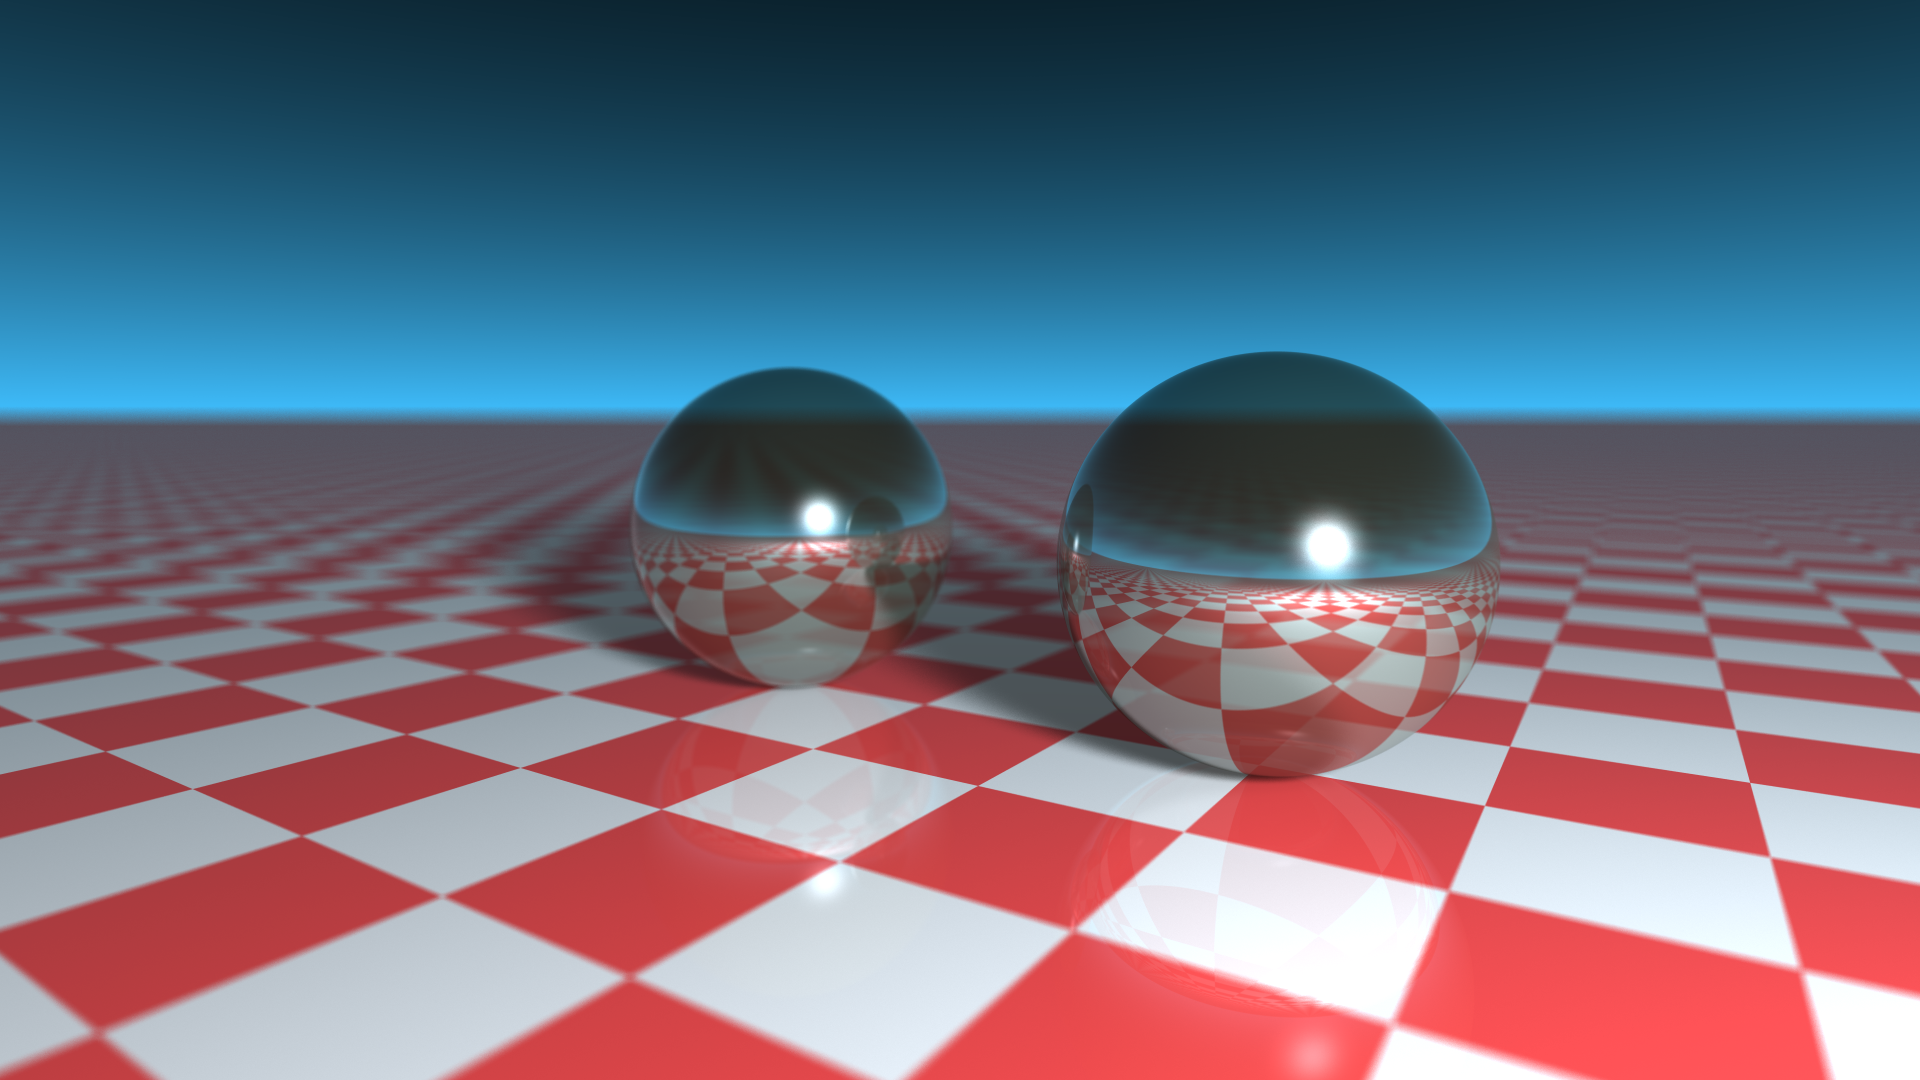
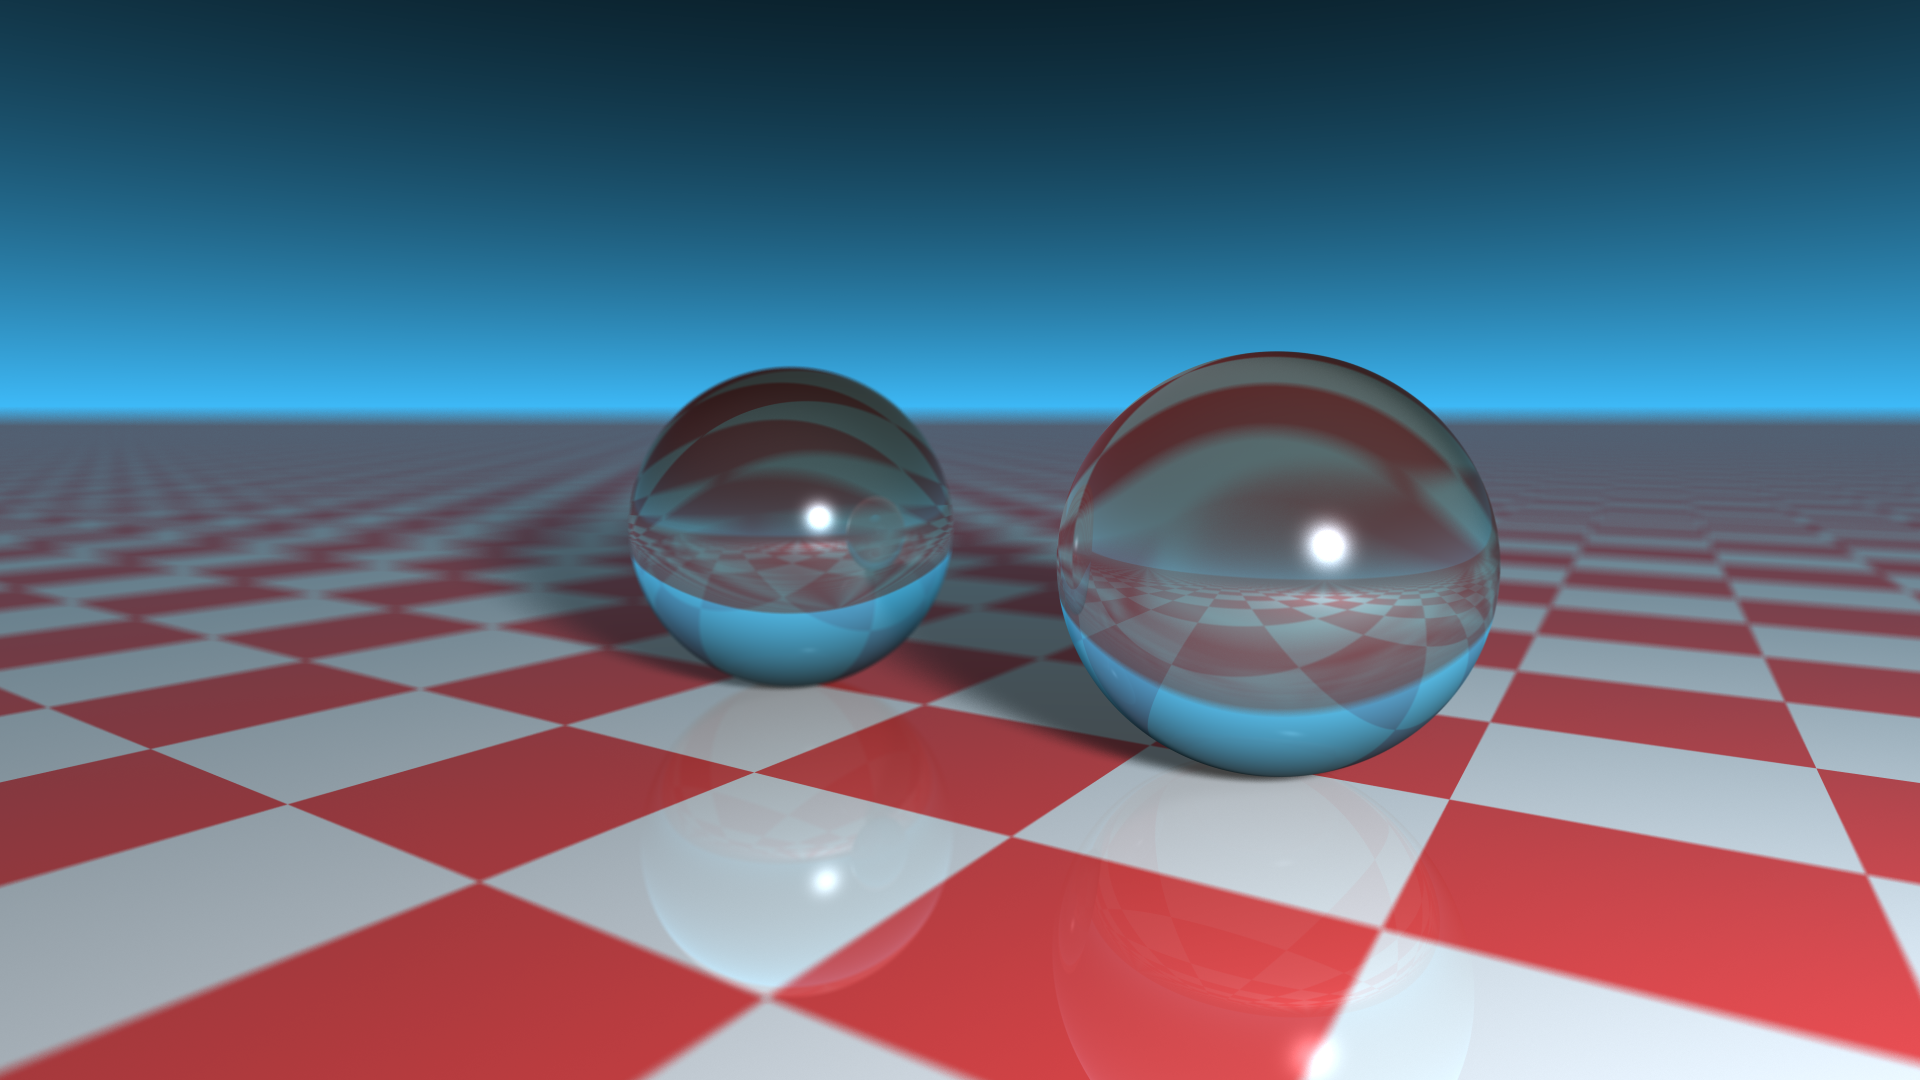
updated

diff --git a/src/03_rewritten/card.cc b/src/03_rewritten/card.cc
@@ -756,12 +756,14 @@ void scene_factory::initialize_simple()
     _world[row++] = 0b00000000000000000000000000000000;
     _world[row++] = 0b00000000000000100100000000000000;
 
+    _floor_scale     = float     (0.7f);
+    _floor_reflect   = float     (0.3f);
     _sphere_radius   = float     (1.0f);
-    _sphere_color    = rt::col3f (0.15f, 0.25f, 0.50f);
-    _sphere_reflect  = float     (0.10f);
+    _sphere_color    = rt::col3f (0.15f, 0.35f, 0.25f);
+    _sphere_reflect  = float     (0.20f);
     _sphere_refract  = float     (0.70f);
-    _sphere_eta      = float     (0.65f);
-    _sphere_specular = float     (50.0f);
+    _sphere_eta      = float     (0.70f);
+    _sphere_specular = float     (90.0f);
 }
 
 std::shared_ptr<rt::scene> scene_factory::build()
